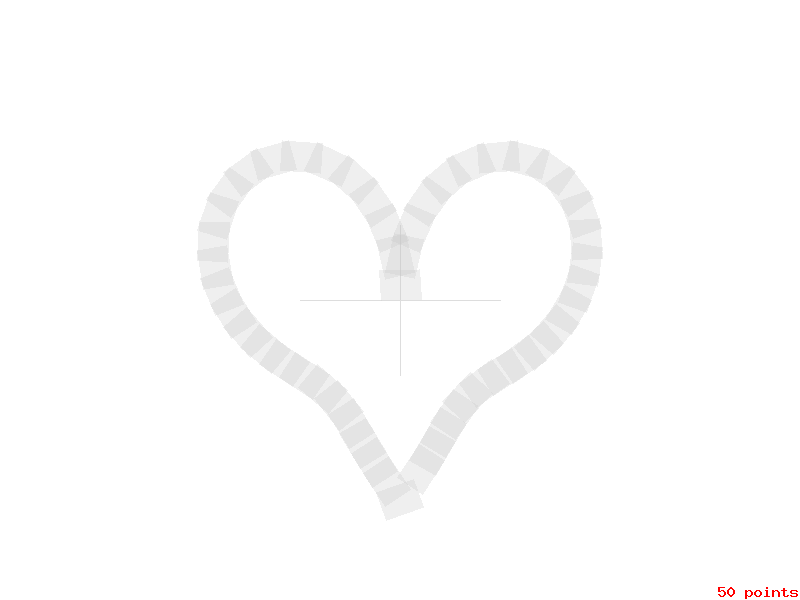
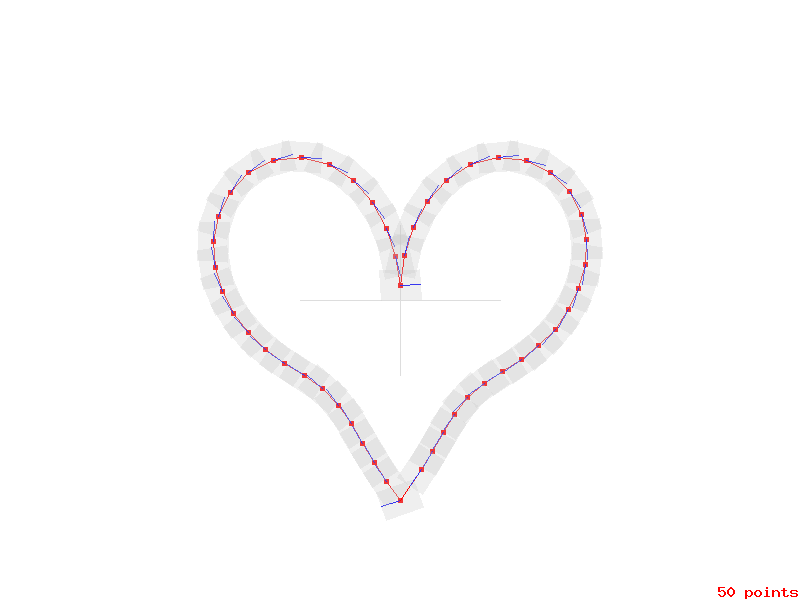
Removed the code for making data.json.

diff --git a/2014/test.php b/2014/test.php
@@ -1,9 +1,12 @@
 <?php
-    // Copyright (C) 2014 Vladimir P.
+    require_once('lib/ImageAffineMatrix.php');
     
-    define('DATA_JSON_FILE', 'data.json');
     
-    $data = [];
+    define('IMAGE_WIDTH',  800);
+    define('IMAGE_HEIGHT', 600);
+    
+    define('FLAG_WIDTH',  40);
+    define('FLAG_HEIGHT', 30);
     
     
     // Heart
@@ -15,7 +18,7 @@
         $p = 2.0 * (1 - $n / M_PI) + 0.3 * $n * (M_PI - $n) + 0.6 * $n * (M_PI - $n) * ($n - M_PI / 2);
         return [ -$p * sin($t) * $scale, $p * cos($t) * $scale ];
     }, 50, 100);
-    $data[] = [ 'p' => $points, 'a' => getAngles($points) ];
+    $angles = getAngles($points);
     
     /*
     // Flower
@@ -29,7 +32,7 @@
         $a = 2*M_PI * $t;
         return [ $r * cos($a), $r * sin($a) ];
     }, 8 * $flowerSections, 10);
-    $data[] = [ 'p' => $points, 'a' => getAngles($points) ];
+    $angles = getAngles($points);
     
     // Star
     $starSections = 5;
@@ -42,11 +45,11 @@
         $a = 2*M_PI * $t;
         return [ $r * cos($a), $r * sin($a) ];
     }, 8 * $starSections, 10);
-    $data[] = [ 'p' => $points, 'a' => getAngles($points) ];
+    $angles = getAngles($points);
     */
     
-    
-    file_put_contents(DATA_JSON_FILE, json_encode($data));
+    header('Content-type: image/png');
+    imagePNG(makeCurvePreviewImage($points, $angles));
     
     
     function getPoints($curve, $count, $attemptsToMakePointsEquidistant) {
@@ -99,6 +102,57 @@
         
         return $angles;
     }
+    
+    
+    function makeCurvePreviewImage($points, $angles, $debug = true) {
+        assert(count($points) % 2 === 0);
+        $count = count($points) / 2;
+        assert($count === count($angles));
+        
+        $image = imageCreateTrueColor(IMAGE_WIDTH, IMAGE_HEIGHT);
+        imageFilledRectangle($image, 0, 0, IMAGE_WIDTH - 1, IMAGE_HEIGHT - 1, 0xFFFFFF);
+        
+        imageLine($image, IMAGE_WIDTH * (3/8), IMAGE_HEIGHT / 2,
+                  IMAGE_WIDTH * (5/8), IMAGE_HEIGHT / 2, 0xDDDDDD);
+        imageLine($image, IMAGE_WIDTH / 2, IMAGE_HEIGHT * (3/8),
+                  IMAGE_WIDTH / 2, IMAGE_HEIGHT * (5/8), 0xDDDDDD);
+        
+        $centerX = IMAGE_WIDTH / 2;
+        $centerY = IMAGE_HEIGHT / 2;
+        for($i = 0; $i < $count; ++$i) {
+            $currX = $points[$i * 2    ] + $centerX;
+            $currY = $points[$i * 2 + 1] + $centerY;
+            $nextX = $points[($i + 1) % $count * 2    ] + $centerX;
+            $nextY = $points[($i + 1) % $count * 2 + 1] + $centerY;
+            
+            if($debug) {
+                imageLine($image, $currX, $currY, $nextX, $nextY, 0xFF0000);
+                imageFilledRectangle($image, $currX - 2, $currY - 2, $currX + 2, $currY + 2, 0xFF0000);
+                
+                imageLine($image, $currX, $currY,
+                          $currX + 20 * cos($angles[$i]),
+                          $currY + 20 * sin($angles[$i]),
+                          0x0000FF);
+            }
+            
+            $m = (new ImageAffineMatrix())->translate($currX, $currY)->rotate($angles[$i]);
+            $flag = [];
+            $flag = array_merge($flag, $m->transformPoint(-FLAG_WIDTH / 2, -FLAG_HEIGHT / 2));
+            $flag = array_merge($flag, $m->transformPoint(-FLAG_WIDTH / 2,  FLAG_HEIGHT / 2));
+            $flag = array_merge($flag, $m->transformPoint( FLAG_WIDTH / 2,  FLAG_HEIGHT / 2));
+            $flag = array_merge($flag, $m->transformPoint( FLAG_WIDTH / 2, -FLAG_HEIGHT / 2));
+            imageFilledPolygon($image, $flag, count($flag) / 2,
+                               imageColorResolveAlpha($image, 200, 200, 200, 92));
+        }
+        
+        $label = $count . ' points';
+        $labelWidth = imageFontWidth(5) * strlen($label);
+        imageString($image, 5, IMAGE_WIDTH - 1 - $labelWidth, IMAGE_HEIGHT - 1 - imageFontHeight(5),
+                    $label, 0xFF0000);
+        
+        return $image;
+    }
+    
     
     function lerp($start, $end, $ratio) {
         return $start + $ratio * ($end - $start);
